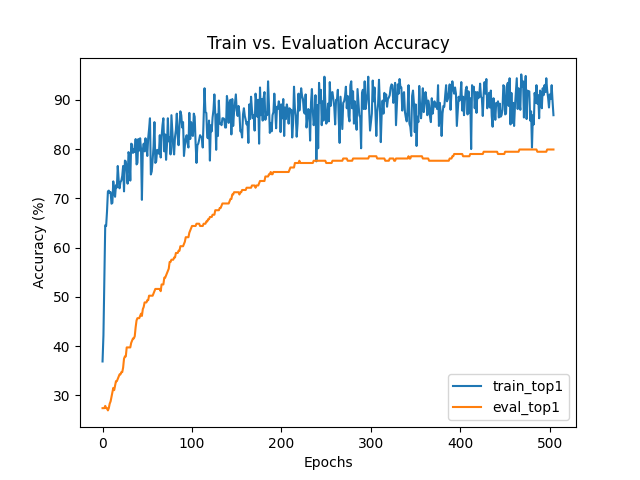
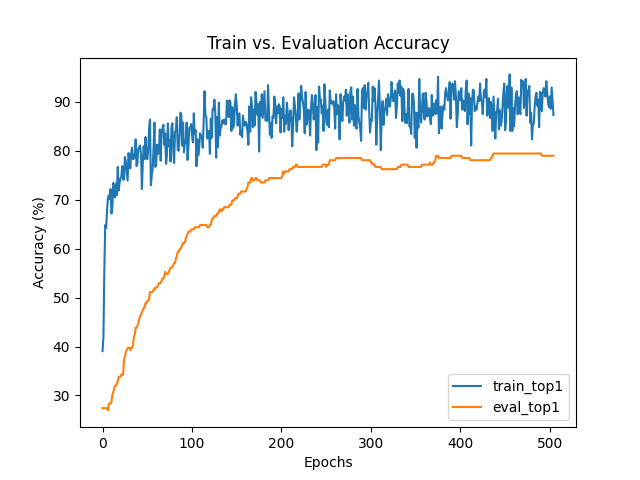
remake plots

diff --git a/metrics_plotter.py b/metrics_plotter.py
@@ -2,26 +2,25 @@ from pathlib import Path
 import matplotlib.pyplot as plt
 import pandas as pd
 
-
-base = Path(r"output/finetune/20231031-152142-CSWin_64_12211_tiny_224-224")
-out=Path("model_metrics/CSWin_64_12211_tiny_224")
-df = pd.read_csv(str(base/"summary.csv"))
-print(df)
+out = Path("model_metrics/CSWin_64_12211_tiny_224")
+df = pd.read_csv(r"C:\Users\gcper\Code\Thesis\CSWin-Transformer\output\finetune\20231102-234916-CSWin_64_12211_tiny_224-224\summary.csv")
+# print(df)
 
 # plot loss
+print(df[["train_loss", "eval_loss"]])
 df[["train_loss", "eval_loss"]].plot()
 plt.title("Train vs. Evaluation Loss")
 plt.grid()
 plt.ylabel("Cross-Entropy Loss")
 plt.xlabel("Epochs")
 # plt.show()
-plt.savefig(str(out/"losses.png"))
+plt.savefig(str(out / "losses.png"))
 plt.close()
 # plot accuracy
 df[["train_top1", "eval_top1"]].plot()
 plt.title("Train vs. Evaluation Accuracy")
 plt.xlabel("Epochs")
 plt.ylabel("Accuracy (%)")
-plt.savefig(str(out/"accuracies.png"))
+plt.savefig(str(out / "accuracies.png"))
 # plt.show()
 plt.close()
